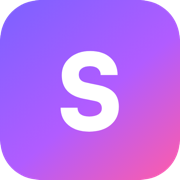
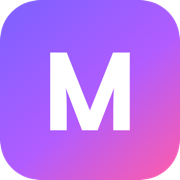
The surface says Mailtrick; the keys still say scopeguard
Titles, meta tags, JSON-LD, the wordmark, the footer and the letter on the logo
tile — plus the three raster assets, redrawn from `docs/brand/`. Nothing below
the surface moved: the systemd unit, `/srv/scopeguard`, the `sg_vid` cookie,
`product: "scopeguard"`, `leads_scopeguard` and the host are identifiers, and
renaming an identifier splits every report at the rename date for no gain.

Same rule as the last rename, now written down in §0 so the next one starts
past this fork rather than at it.

Changed region(s): [[0.2778, 0.2778, 0.7222, 0.75]]

diff --git a/public/index.html b/public/index.html
@@ -3,23 +3,23 @@
 <head>
 <meta charset="utf-8">
 <meta name="viewport" content="width=device-width, initial-scale=1">
-<title>Signalens — is that request actually in scope?</title>
+<title>Mailtrick — is that request actually in scope?</title>
 <meta name="description" content="Paste what you agreed to, paste the client's message, get a verdict and a reply you can send.">
 <link rel="canonical" href="https://scopeguard.anytoolai.store/">
 <meta name="robots" content="index, follow, max-image-preview:large, max-snippet:-1">
 
 <meta property="og:type" content="website">
-<meta property="og:site_name" content="Signalens">
+<meta property="og:site_name" content="Mailtrick">
 <meta property="og:url" content="https://scopeguard.anytoolai.store/">
-<meta property="og:title" content="Signalens — is that request actually in scope?">
+<meta property="og:title" content="Mailtrick — is that request actually in scope?">
 <meta property="og:description" content="Paste what you agreed to, paste the client's message, get a verdict and a reply you can send.">
 <meta property="og:image" content="https://scopeguard.anytoolai.store/og.png">
 <meta property="og:image:width" content="1200">
 <meta property="og:image:height" content="630">
-<meta property="og:image:alt" content="Signalens — “Could you just quickly also…”, answered with an Out of scope verdict.">
+<meta property="og:image:alt" content="Mailtrick — “Could you just quickly also…”, answered with an Out of scope verdict.">
 <meta property="og:locale" content="en_US">
 <meta name="twitter:card" content="summary_large_image">
-<meta name="twitter:title" content="Signalens — is that request actually in scope?">
+<meta name="twitter:title" content="Mailtrick — is that request actually in scope?">
 <meta name="twitter:description" content="Paste what you agreed to, paste the client's message, get a verdict and a reply you can send.">
 <meta name="twitter:image" content="https://scopeguard.anytoolai.store/og.png">
 
@@ -39,14 +39,14 @@
       "@type": "WebSite",
       "@id": "https://scopeguard.anytoolai.store/#website",
       "url": "https://scopeguard.anytoolai.store/",
-      "name": "Signalens",
+      "name": "Mailtrick",
       "inLanguage": "en",
       "publisher": { "@id": "https://scopeguard.anytoolai.store/#org" }
     },
     {
       "@type": "Organization",
       "@id": "https://scopeguard.anytoolai.store/#org",
-      "name": "Signalens",
+      "name": "Mailtrick",
       "legalName": "TRIOLIGHT TECHNOLOGIES FZCO",
       "url": "https://scopeguard.anytoolai.store/",
       "logo": "https://scopeguard.anytoolai.store/apple-touch-icon.png",
@@ -60,11 +60,11 @@
     },
     {
       "@type": "SoftwareApplication",
-      "name": "Signalens",
+      "name": "Mailtrick",
       "url": "https://scopeguard.anytoolai.store/",
       "applicationCategory": "BusinessApplication",
       "operatingSystem": "Web",
-      "description": "Check a client request against the terms you agreed to. Signalens returns a verdict — in scope, out of scope, or unclear — with the line it rests on and a reply you can send.",
+      "description": "Check a client request against the terms you agreed to. Mailtrick returns a verdict — in scope, out of scope, or unclear — with the line it rests on and a reply you can send.",
       "audience": { "@type": "Audience", "audienceType": "Freelancers, designers, developers, writers and consultants" },
       "publisher": { "@id": "https://scopeguard.anytoolai.store/#org" }
     }
@@ -77,8 +77,8 @@
 <header class="header">
   <div class="header__inner">
     <a class="wordmark" href="/" style="border-bottom:0">
-      <span class="logo-tile">S</span>
-      <span>Signalens</span>
+      <span class="logo-tile">M</span>
+      <span>Mailtrick</span>
     </a>
     <button class="btn-primary btn-primary--sm" type="button" data-access data-cta="header">Get access</button>
   </div>
@@ -273,7 +273,7 @@
   <!-- ── Two features ──────────────────────────────────────────────── -->
   <section class="section">
     <div class="wrap">
-      <p class="eyebrow">What’s next in Signalens</p>
+      <p class="eyebrow">What’s next in Mailtrick</p>
       <h2 class="features__title">Two features we’re building next.</h2>
 
       <div class="cards cards--pair">
@@ -284,7 +284,7 @@
           </div>
           <h3>SOW Health &amp; Risk Report</h3>
           <p class="muted">
-            Upload a contract PDF and Signalens will score it against 10 industry
+            Upload a contract PDF and Mailtrick will score it against 10 industry
             standards — surfacing weak clauses, missing protections, and exact
             language to add before anything goes wrong.
           </p>
@@ -307,7 +307,7 @@
           </div>
           <h3>Context-Aware Evaluation</h3>
           <p class="muted">
-            Most tools only accept copy-paste. Signalens will understand context — paste
+            Most tools only accept copy-paste. Mailtrick will understand context — paste
             the client’s exact message or simply describe what they’re asking. Both
             get the same precision verdict.
           </p>
@@ -374,7 +374,7 @@
         </div>
       </div>
 
-      <p class="cost__close">Signalens spots it <b>before you say yes</b> — and gives you the exact words to respond.</p>
+      <p class="cost__close">Mailtrick spots it <b>before you say yes</b> — and gives you the exact words to respond.</p>
     </div>
   </section>
 
@@ -402,7 +402,7 @@
     <div id="access-form">
       <h3 id="access-title">Where should we send your access?</h3>
       <p class="muted small">
-        Signalens is opening in batches. Leave your address and we’ll send you a way
+        Mailtrick is opening in batches. Leave your address and we’ll send you a way
         in. That’s the only thing we’ll use it for.
       </p>
       <input type="email" id="access-email" placeholder="you@studio.com" autocomplete="email" inputmode="email">
@@ -425,7 +425,7 @@
 
 <footer class="footer">
   <div>
-    <div>Signalens by TRIOLIGHT TECHNOLOGIES FZCO, Dubai, United Arab Emirates</div>
+    <div>Mailtrick by TRIOLIGHT TECHNOLOGIES FZCO, Dubai, United Arab Emirates</div>
     <div>We never store the text you paste.</div>
   </div>
   <nav>

diff --git a/public/privacy.html b/public/privacy.html
@@ -3,15 +3,15 @@
 <head>
 <meta charset="utf-8">
 <meta name="viewport" content="width=device-width, initial-scale=1">
-<title>Privacy — Signalens</title>
-<meta name="description" content="What Signalens does with your information: the agreement and client message you paste are never written to our database or our logs.">
+<title>Privacy — Mailtrick</title>
+<meta name="description" content="What Mailtrick does with your information: the agreement and client message you paste are never written to our database or our logs.">
 <link rel="canonical" href="https://scopeguard.anytoolai.store/privacy.html">
 <meta name="robots" content="index, follow">
 <meta property="og:type" content="article">
-<meta property="og:site_name" content="Signalens">
+<meta property="og:site_name" content="Mailtrick">
 <meta property="og:url" content="https://scopeguard.anytoolai.store/privacy.html">
-<meta property="og:title" content="Privacy — Signalens">
-<meta property="og:description" content="What Signalens does with your information: the agreement and client message you paste are never written to our database or our logs.">
+<meta property="og:title" content="Privacy — Mailtrick">
+<meta property="og:description" content="What Mailtrick does with your information: the agreement and client message you paste are never written to our database or our logs.">
 <meta property="og:image" content="https://scopeguard.anytoolai.store/og.png">
 <meta name="theme-color" content="#14141a">
 <link rel="icon" href="/favicon.svg" type="image/svg+xml">
@@ -24,8 +24,8 @@
 <header class="header">
   <div class="header__inner">
     <a class="wordmark" href="/" style="border-bottom:0">
-      <span class="logo-tile">S</span>
-      <span>Signalens</span>
+      <span class="logo-tile">M</span>
+      <span>Mailtrick</span>
     </a>
   </div>
 </header>
@@ -34,7 +34,7 @@
   <h1>Privacy notice</h1>
   <p class="muted small">Last updated: 18 August 2026</p>
   <p>
-    Signalens is operated by TRIOLIGHT TECHNOLOGIES FZCO,
+    Mailtrick is operated by TRIOLIGHT TECHNOLOGIES FZCO,
     30207, A1, IFZA, Dubai, 415123, United Arab Emirates (“we”). This notice
     explains what we do with your
     information. Questions go to
@@ -140,7 +140,7 @@
 
 <footer class="footer">
   <div>
-    <div>Signalens by TRIOLIGHT TECHNOLOGIES FZCO, Dubai, United Arab Emirates</div>
+    <div>Mailtrick by TRIOLIGHT TECHNOLOGIES FZCO, Dubai, United Arab Emirates</div>
     <div>We never store the text you paste.</div>
   </div>
   <nav>

diff --git a/public/terms.html b/public/terms.html
@@ -3,15 +3,15 @@
 <head>
 <meta charset="utf-8">
 <meta name="viewport" content="width=device-width, initial-scale=1">
-<title>Terms — Signalens</title>
-<meta name="description" content="The terms you agree to when you use Signalens to check a client request against the scope you agreed to.">
+<title>Terms — Mailtrick</title>
+<meta name="description" content="The terms you agree to when you use Mailtrick to check a client request against the scope you agreed to.">
 <link rel="canonical" href="https://scopeguard.anytoolai.store/terms.html">
 <meta name="robots" content="index, follow">
 <meta property="og:type" content="article">
-<meta property="og:site_name" content="Signalens">
+<meta property="og:site_name" content="Mailtrick">
 <meta property="og:url" content="https://scopeguard.anytoolai.store/terms.html">
-<meta property="og:title" content="Terms — Signalens">
-<meta property="og:description" content="The terms you agree to when you use Signalens to check a client request against the scope you agreed to.">
+<meta property="og:title" content="Terms — Mailtrick">
+<meta property="og:description" content="The terms you agree to when you use Mailtrick to check a client request against the scope you agreed to.">
 <meta property="og:image" content="https://scopeguard.anytoolai.store/og.png">
 <meta name="theme-color" content="#14141a">
 <link rel="icon" href="/favicon.svg" type="image/svg+xml">
@@ -24,8 +24,8 @@
 <header class="header">
   <div class="header__inner">
     <a class="wordmark" href="/" style="border-bottom:0">
-      <span class="logo-tile">S</span>
-      <span>Signalens</span>
+      <span class="logo-tile">M</span>
+      <span>Mailtrick</span>
     </a>
   </div>
 </header>
@@ -34,7 +34,7 @@
   <h1>Terms of use</h1>
   <p class="muted small">Last updated: 18 August 2026</p>
   <p>
-    Signalens is operated by TRIOLIGHT TECHNOLOGIES FZCO,
+    Mailtrick is operated by TRIOLIGHT TECHNOLOGIES FZCO,
     30207, A1, IFZA, Dubai, 415123, United Arab Emirates. By using the site you
     agree to what follows. If you do not, please don’t use it.
   </p>
@@ -105,7 +105,7 @@
 
 <footer class="footer">
   <div>
-    <div>Signalens by TRIOLIGHT TECHNOLOGIES FZCO, Dubai, United Arab Emirates</div>
+    <div>Mailtrick by TRIOLIGHT TECHNOLOGIES FZCO, Dubai, United Arab Emirates</div>
     <div>We never store the text you paste.</div>
   </div>
   <nav>

diff --git a/public/app.html b/public/app.html
@@ -3,7 +3,7 @@
 <head>
 <meta charset="utf-8">
 <meta name="viewport" content="width=device-width, initial-scale=1">
-<title>Check a client request — Signalens</title>
+<title>Check a client request — Mailtrick</title>
 <meta name="robots" content="noindex, follow">
 <meta name="theme-color" content="#14141a">
 <link rel="icon" href="/favicon.svg" type="image/svg+xml">
@@ -16,8 +16,8 @@
 <header class="header">
   <div class="header__inner">
     <a class="wordmark" href="/" style="border-bottom:0">
-      <span class="logo-tile">S</span>
-      <span>Signalens</span>
+      <span class="logo-tile">M</span>
+      <span>Mailtrick</span>
     </a>
   </div>
 </header>
@@ -171,7 +171,7 @@
 
 <footer class="footer">
   <div>
-    <div>Signalens by TRIOLIGHT TECHNOLOGIES FZCO, Dubai, United Arab Emirates</div>
+    <div>Mailtrick by TRIOLIGHT TECHNOLOGIES FZCO, Dubai, United Arab Emirates</div>
     <div>We never store the text you paste.</div>
   </div>
   <nav>

diff --git a/docs/brand/og.html b/docs/brand/og.html
@@ -51,7 +51,7 @@ p.lead { margin-top: 30px; font-size: 29px; line-height: 1.45; color: #9a9aab; m
 <div class="glow"></div>
 <div class="glow2"></div>
 <div class="pad">
-  <div class="brand"><span class="tile">S</span><span>Signalens</span></div>
+  <div class="brand"><span class="tile">M</span><span>Mailtrick</span></div>
   <h1>“Could you just<br><span class="grad">quickly also…</span>”</h1>
   <p class="lead">Paste what you agreed to, paste the client’s message — get a verdict and a reply you can send.</p>
   <div class="foot">

diff --git a/public/js/analytics.js b/public/js/analytics.js
@@ -1,5 +1,5 @@
 /* GA4 wrapper. Every event carries product: "scopeguard" — the product is now
- * called Signalens, but this string is an analytics key, and renaming it would
+ * called Mailtrick, but this string is an analytics key, and renaming it would
  * split every report at the rename date for no gain.
  *
  * Analytics cookies are not set until the visitor accepts. Events fired before

diff --git a/public/styles.css b/public/styles.css
@@ -1,4 +1,4 @@
-/* Signalens — styles.css
+/* Mailtrick — styles.css
    Dark neon theme. Satoshi, gradient accents (violet → magenta → pink), one radius.
    Verdict status colors are the only colors that carry meaning. */
 

diff --git a/docs/brand/icon.html b/docs/brand/icon.html
@@ -15,5 +15,5 @@ body { width: 512px; height: 512px; overflow: hidden; background: transparent; }
 }
 </style>
 </head>
-<body><div class="tile">S</div></body>
+<body><div class="tile">M</div></body>
 </html>

diff --git a/docs/scopeguard-mvp-spec.md b/docs/scopeguard-mvp-spec.md
@@ -1,4 +1,4 @@
-# Signalens — веб-MVP (продукт 2)
+# Mailtrick — веб-MVP (продукт 2)
 
 Спецификация для начальной реализации.
 
@@ -8,7 +8,7 @@
 
 Внесены по прямому решению заказчика 11.08.2026. Всё остальное в документе остаётся в силе; механика вердикта, порядок воронки и email-гейт перед вердиктом не менялись.
 
-- **Название.** Продукт называется **Signalens**. `Scope Creep Guard` остаётся только в служебных именах, которые ничего не стоит не трогать: systemd-юнит, пути `/srv/scopeguard`, кука `sg_vid`, поле `product: "scopeguard"` в аналитике.
+- **Название.** Продукт называется **Mailtrick**. С 11.08.2026 он назывался Signalens; решение заказчика 18.08.2026 — переименовать. Менялась только витрина: заголовки страниц, метатеги, JSON-LD, футер и буква на плитке логотипа (`S` → `M`). `Scope Creep Guard` остаётся там, где имя — только идентификатор, и трогать его нечего: systemd-юнит, пути `/srv/scopeguard`, кука `sg_vid`, поле `product: "scopeguard"` в аналитике, таблица `leads_scopeguard`, домен `scopeguard.anytoolai.store`. Это то же правило, что и при первом переименовании: переименование ключа расщепляет отчёты по дате и не даёт ничего.
 - **Дизайн-референс.** Вместо Fenscope и тёплой терракоты — тёмная неоновая тема на Satoshi с градиентом фиолетовый → маджента → розовый, базовый фон `#14141a`. Лендинг стал широким (`72rem`), экраны инструмента остались узкими (`42rem`). Полностью описано в [`DESIGN.md`](DESIGN.md).
 - **Язык интерфейса — только английский.** Какое-то время в шапке стоял переключатель EN/RU с полным русским переводом. Решение заказчика 14.08.2026: русскую версию убрать. Вместе с ней ушли сам переключатель, слой, переписывавший разметку при смене языка, и все атрибуты `data-i18n`, существовавшие только ради него: для англоязычного посетителя этот проход и так никогда не выполнялся. В `public/js/strings.js` осталось лишь то, чего разметка удержать не может, — текст, собираемый из чисел, названия вердиктов и ошибки. Юридические страницы как были английскими, так и остались; заметка о том, что страница доступна только на английском, убрана — она имела смысл, пока переключалось всё вокруг неё.
 - **Добавлено сверх §5.** Калькулятор потерь и табы с тремя примерами вердикта на лендинге; кольцевой лоадер с процентом вместо списка подписей на экране ожидания.
@@ -27,7 +27,7 @@
 
 - **Блок «Две возможности» на лендинге — намеренная дверь-обманка.** Решение заказчика 11.08.2026 после показа референса. Левая карточка обещает то, чего в продукте нет: загрузку договора в PDF и отчёт о рисках по 10 стандартам. Замер — событие `cta_click` с `placement = feature_sow`: сколько людей хотят разбор договора, а не разбор одного запроса. С 14.08.2026 кнопка ведёт в инструмент, как и остальные, поэтому клик теперь заканчивается экраном, который обещанного не делает: замер остался, мягкой посадки у него больше нет. Правая карточка (дословное сообщение или пересказ своими словами) описывает то, что инструмент действительно умеет. Если фича не будет строиться — карточку убрать целиком, вместе с ключами `feat.sow.*`: обещание на лендинге, которое инструмент не выполняет, живёт ровно столько, сколько идёт замер.
 
-- **Обе карточки блока помечены как «следующая версия».** Решение заказчика 14.08.2026, поправка к пункту выше. Обе описывают то, чего инструмент сегодня не делает: левая — разбор договора целиком, правая — пересказ запроса своими словами (инструмент берёт сообщение как пришло). Теперь это сказано на самих карточках: эйлайн и заголовок секции переведены в будущее время («What’s next in Signalens», «Two features we’re building next»), метки у плиток стали `Coming next · …`, и каждая карточка заканчивается строкой `.feature__soon` — что есть сейчас и что будет. Дверь-обманка осталась дверью: кнопка на левой карточке ведёт туда же и шлёт тот же `cta_click` с `placement = feature_sow`, замер спроса на разбор договора продолжается — но клик теперь означает «хочу, когда будет», а не «думал, что уже есть». Правило снятия в силе: не строим фичу — убираем карточку.
+- **Обе карточки блока помечены как «следующая версия».** Решение заказчика 14.08.2026, поправка к пункту выше. Обе описывают то, чего инструмент сегодня не делает: левая — разбор договора целиком, правая — пересказ запроса своими словами (инструмент берёт сообщение как пришло). Теперь это сказано на самих карточках: эйлайн и заголовок секции переведены в будущее время («What’s next in Mailtrick», «Two features we’re building next»), метки у плиток стали `Coming next · …`, и каждая карточка заканчивается строкой `.feature__soon` — что есть сейчас и что будет. Дверь-обманка осталась дверью: кнопка на левой карточке ведёт туда же и шлёт тот же `cta_click` с `placement = feature_sow`, замер спроса на разбор договора продолжается — но клик теперь означает «хочу, когда будет», а не «думал, что уже есть». Правило снятия в силе: не строим фичу — убираем карточку.
 
 - **Скрепка на экране 1.** Решение заказчика 14.08.2026. Запрет из §2 «загрузки файлов — только вставка текста» смягчён ровно в одном месте: под полем условий появилась скрепка, а само поле принимает файл перетаскиванием. Принимаются `.docx`, `.txt`, `.md`; старый `.doc`, PDF и сканы — нет, и об этом говорит текст ошибки. Причина: договор существует файлом, и перенабор — это то место, где проверку бросают.
 

diff --git a/README.md b/README.md
@@ -1,4 +1,4 @@
-# Signalens
+# Mailtrick
 
 A freelancer pastes the terms they agreed to and the message their client just
 sent. They get back a verdict — in scope, out of scope, or genuinely unclear —
@@ -8,9 +8,10 @@ This is a demand test, not a product. One mechanic, no accounts, no billing.
 The spec it is built to is [`docs/scopeguard-mvp-spec.md`](docs/scopeguard-mvp-spec.md),
 and the look is described in [`docs/DESIGN.md`](docs/DESIGN.md).
 
-The product was called Scope Creep Guard until August 2026. The old name survives
-in the places where it is only an identifier — the systemd unit, `/srv/scopeguard`,
-the `sg_vid` cookie, the `product` field on analytics events — because renaming
+The product was called Scope Creep Guard until August 2026, and Mailtrick after
+a short spell as Signalens. Only the surface name has ever moved: `scopeguard`
+still names the systemd unit, `/srv/scopeguard`, the `sg_vid` cookie, the
+`product` field on analytics events and the host it is served from — renaming
 those splits the reports and buys nothing.
 
 ## Running it locally

diff --git a/CLAUDE.md b/CLAUDE.md
@@ -1,6 +1,6 @@
 # Working in this repo
 
-Signalens — a one-mechanic demand test. Read
+Mailtrick — a one-mechanic demand test. Read
 [`docs/scopeguard-mvp-spec.md`](docs/scopeguard-mvp-spec.md) before changing
 behaviour; it is the source of truth and it says what deliberately isn't here.
 Its §0 records where the shipped product knowingly departs from the rest of it.

diff --git a/docs/DESIGN.md b/docs/DESIGN.md
@@ -1,4 +1,4 @@
-# Signalens — дизайн-система
+# Mailtrick — дизайн-система
 
 Описывает то, что реально лежит в [`public/styles.css`](../public/styles.css). Если правите стили — правьте и этот файл, иначе он превратится в вымысел.
 
